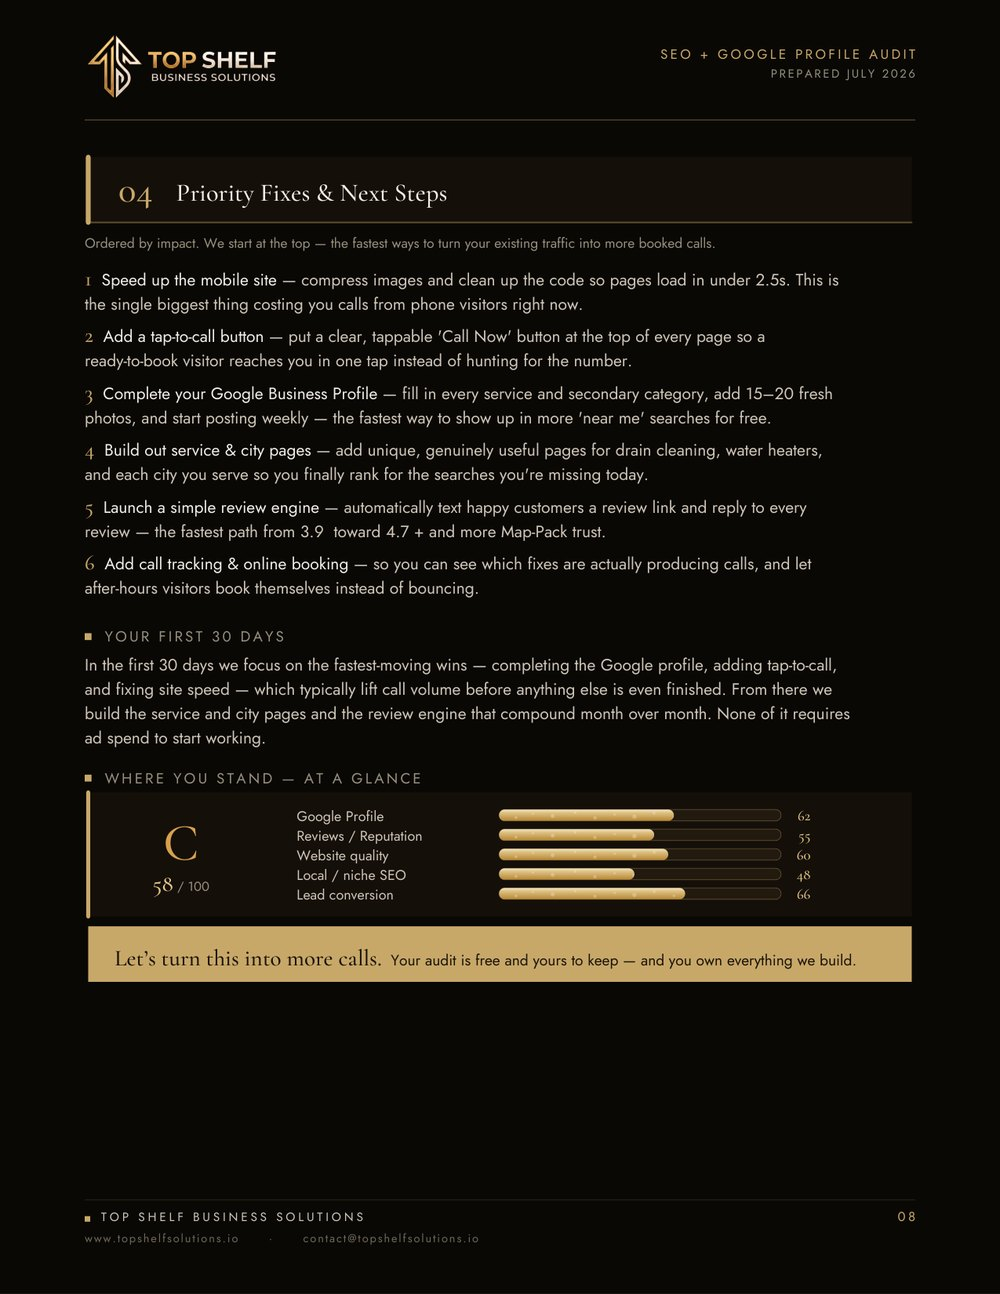
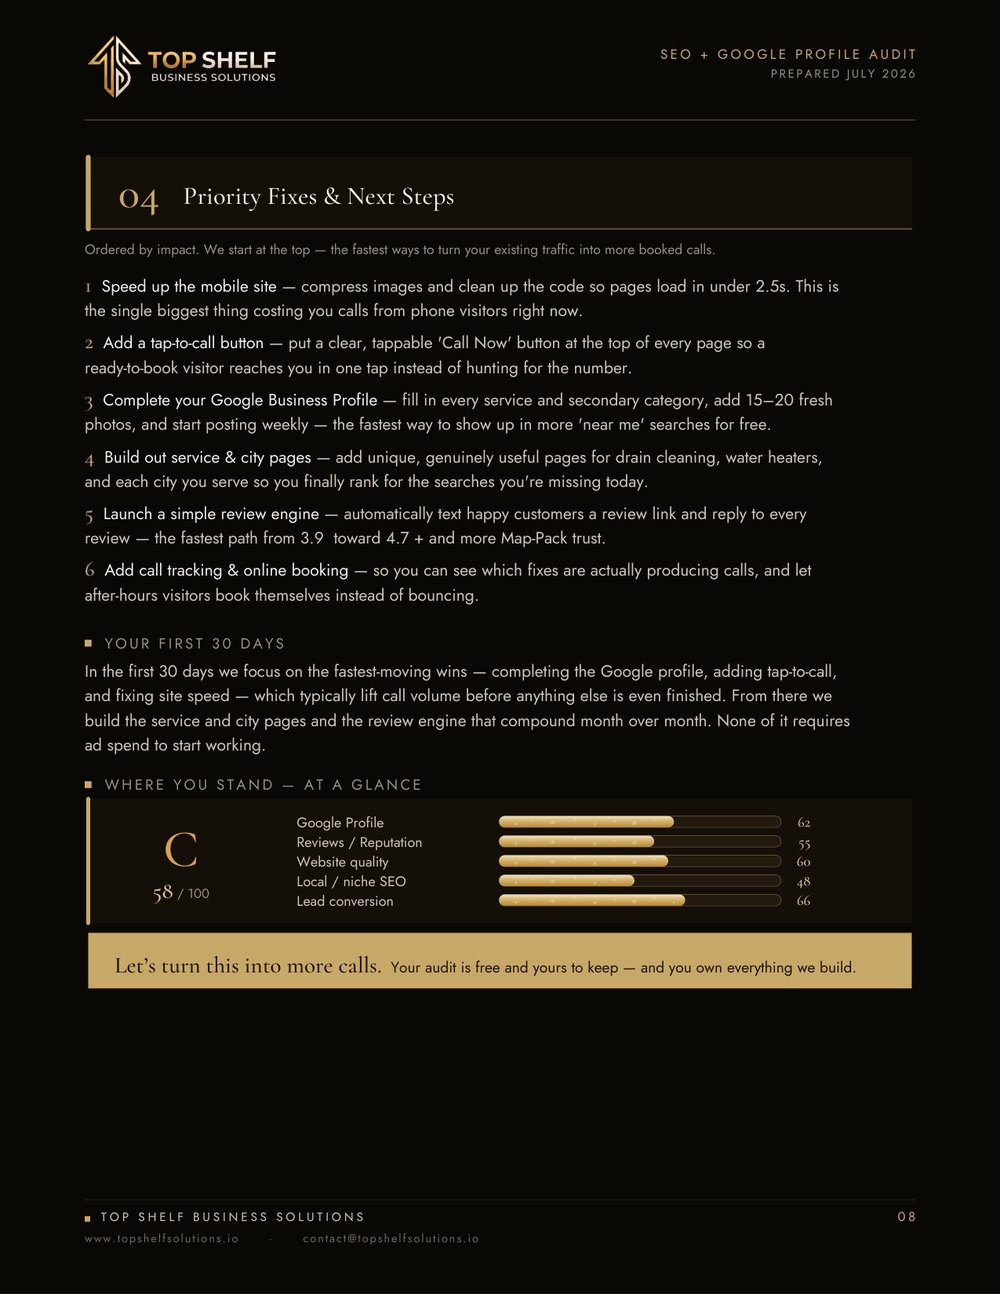
polish(audit): make section numbers a prominent large numeral (27pt), centered
Bumps the section-band number to a proper large gold section numeral so the
size increase is clearly visible, kept cap-height-centered against the title.
Consistent across every band (02/03/04). Cache-bust to v=20260725i.

diff --git a/sample-report.html b/sample-report.html
@@ -81,15 +81,15 @@
       <p class="reveal" style="margin-inline:auto">This is a sample deep-dive for an example local business, so you can see exactly what&rsquo;s inside &mdash; a full A&ndash;F scorecard, a dedicated Google Business Profile audit, a website audit, and the priority fixes. Yours is built around <em>your</em> business, your market, and your competitors.</p>
     </div>
     <div class="sr-wrap reveal">
-        <div class="sr-page reveal"><img src="assets/img/sample-report/p1.jpg?v=20260725h" alt="Sample Top Shelf SEO + Google Business Profile report, page 1" loading="lazy"></div>
-        <div class="sr-page reveal"><img src="assets/img/sample-report/p2.jpg?v=20260725h" alt="Sample Top Shelf SEO + Google Business Profile report, page 2" loading="lazy"></div>
-        <div class="sr-page reveal"><img src="assets/img/sample-report/p3.jpg?v=20260725h" alt="Sample Top Shelf SEO + Google Business Profile report, page 3" loading="lazy"></div>
-        <div class="sr-page reveal"><img src="assets/img/sample-report/p4.jpg?v=20260725h" alt="Sample Top Shelf SEO + Google Business Profile report, page 4" loading="lazy"></div>
-        <div class="sr-page reveal"><img src="assets/img/sample-report/p5.jpg?v=20260725h" alt="Sample Top Shelf SEO + Google Business Profile report, page 5" loading="lazy"></div>
-        <div class="sr-page reveal"><img src="assets/img/sample-report/p6.jpg?v=20260725h" alt="Sample Top Shelf SEO + Google Business Profile report, page 6" loading="lazy"></div>
-        <div class="sr-page reveal"><img src="assets/img/sample-report/p7.jpg?v=20260725h" alt="Sample Top Shelf SEO + Google Business Profile report, page 7" loading="lazy"></div>
-        <div class="sr-page reveal"><img src="assets/img/sample-report/p8.jpg?v=20260725h" alt="Sample Top Shelf SEO + Google Business Profile report, page 8" loading="lazy"></div>
-      <div style="text-align:center;margin-top:.6rem"><a href="sample-seo-report.pdf?v=20260725h" target="_blank" rel="noopener" class="btn btn-line">Open the full sample (PDF) <span class="arr">&rarr;</span></a></div>
+        <div class="sr-page reveal"><img src="assets/img/sample-report/p1.jpg?v=20260725i" alt="Sample Top Shelf SEO + Google Business Profile report, page 1" loading="lazy"></div>
+        <div class="sr-page reveal"><img src="assets/img/sample-report/p2.jpg?v=20260725i" alt="Sample Top Shelf SEO + Google Business Profile report, page 2" loading="lazy"></div>
+        <div class="sr-page reveal"><img src="assets/img/sample-report/p3.jpg?v=20260725i" alt="Sample Top Shelf SEO + Google Business Profile report, page 3" loading="lazy"></div>
+        <div class="sr-page reveal"><img src="assets/img/sample-report/p4.jpg?v=20260725i" alt="Sample Top Shelf SEO + Google Business Profile report, page 4" loading="lazy"></div>
+        <div class="sr-page reveal"><img src="assets/img/sample-report/p5.jpg?v=20260725i" alt="Sample Top Shelf SEO + Google Business Profile report, page 5" loading="lazy"></div>
+        <div class="sr-page reveal"><img src="assets/img/sample-report/p6.jpg?v=20260725i" alt="Sample Top Shelf SEO + Google Business Profile report, page 6" loading="lazy"></div>
+        <div class="sr-page reveal"><img src="assets/img/sample-report/p7.jpg?v=20260725i" alt="Sample Top Shelf SEO + Google Business Profile report, page 7" loading="lazy"></div>
+        <div class="sr-page reveal"><img src="assets/img/sample-report/p8.jpg?v=20260725i" alt="Sample Top Shelf SEO + Google Business Profile report, page 8" loading="lazy"></div>
+      <div style="text-align:center;margin-top:.6rem"><a href="sample-seo-report.pdf?v=20260725i" target="_blank" rel="noopener" class="btn btn-line">Open the full sample (PDF) <span class="arr">&rarr;</span></a></div>
     </div>
   </div>
 </section>
